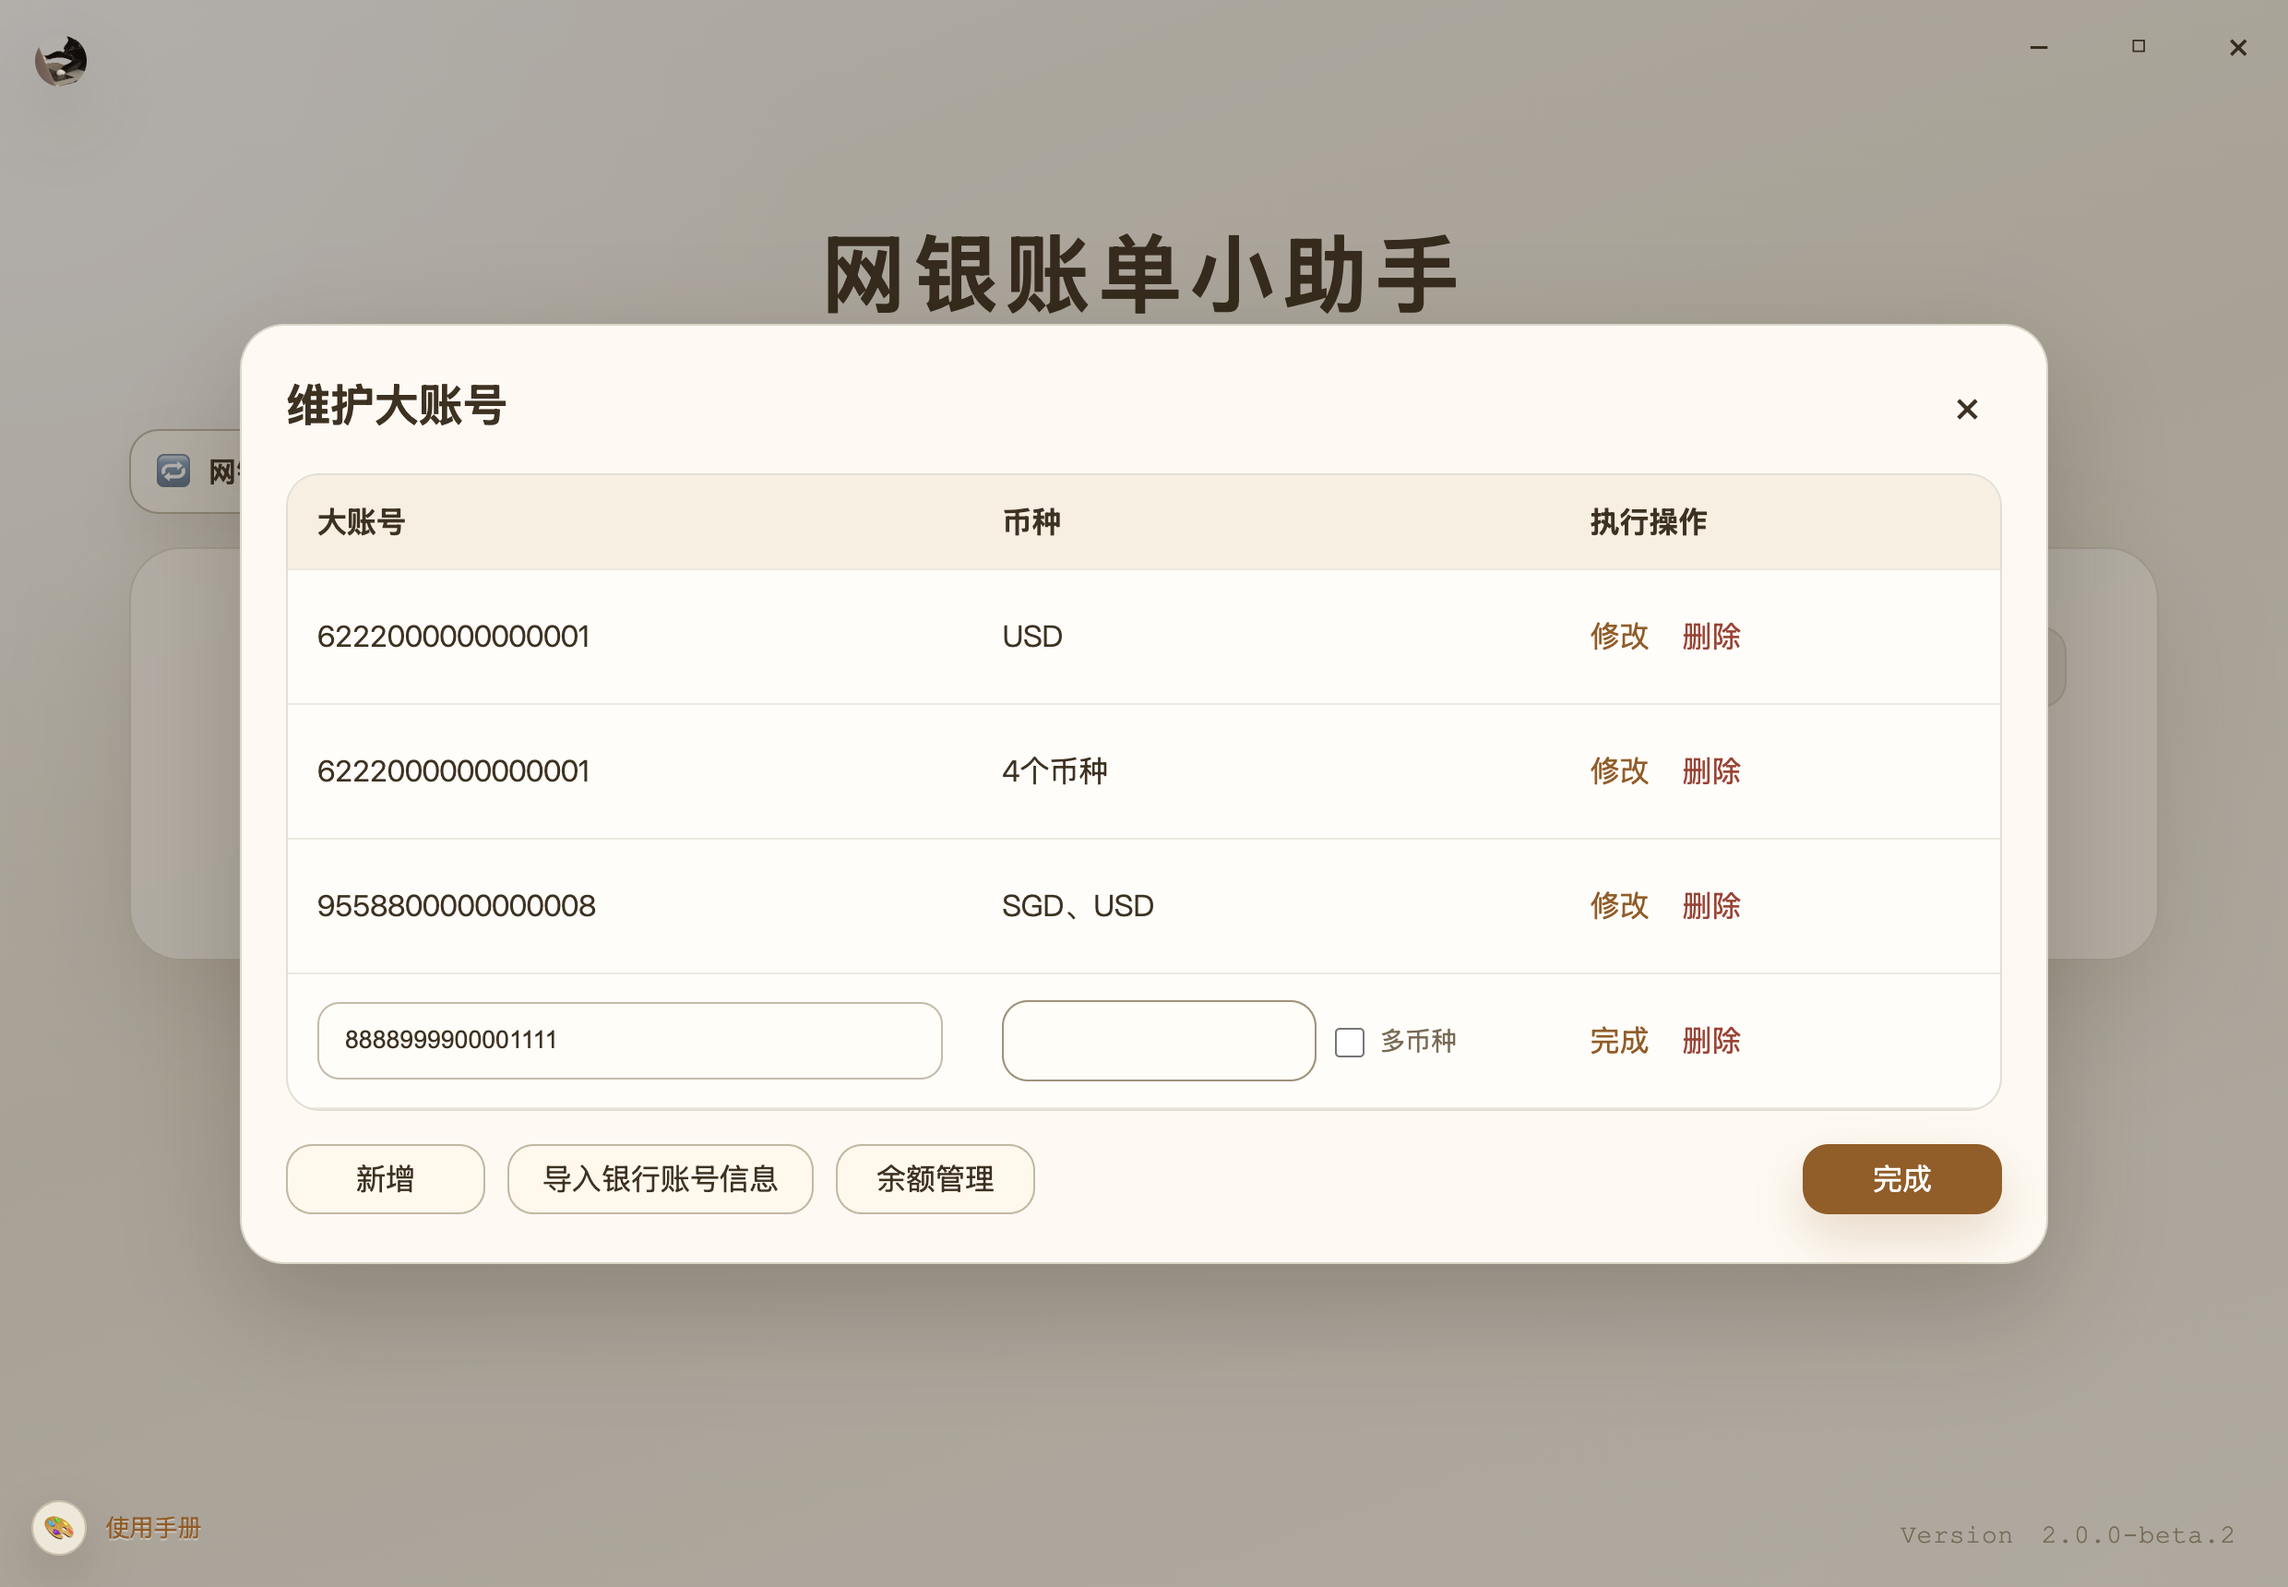
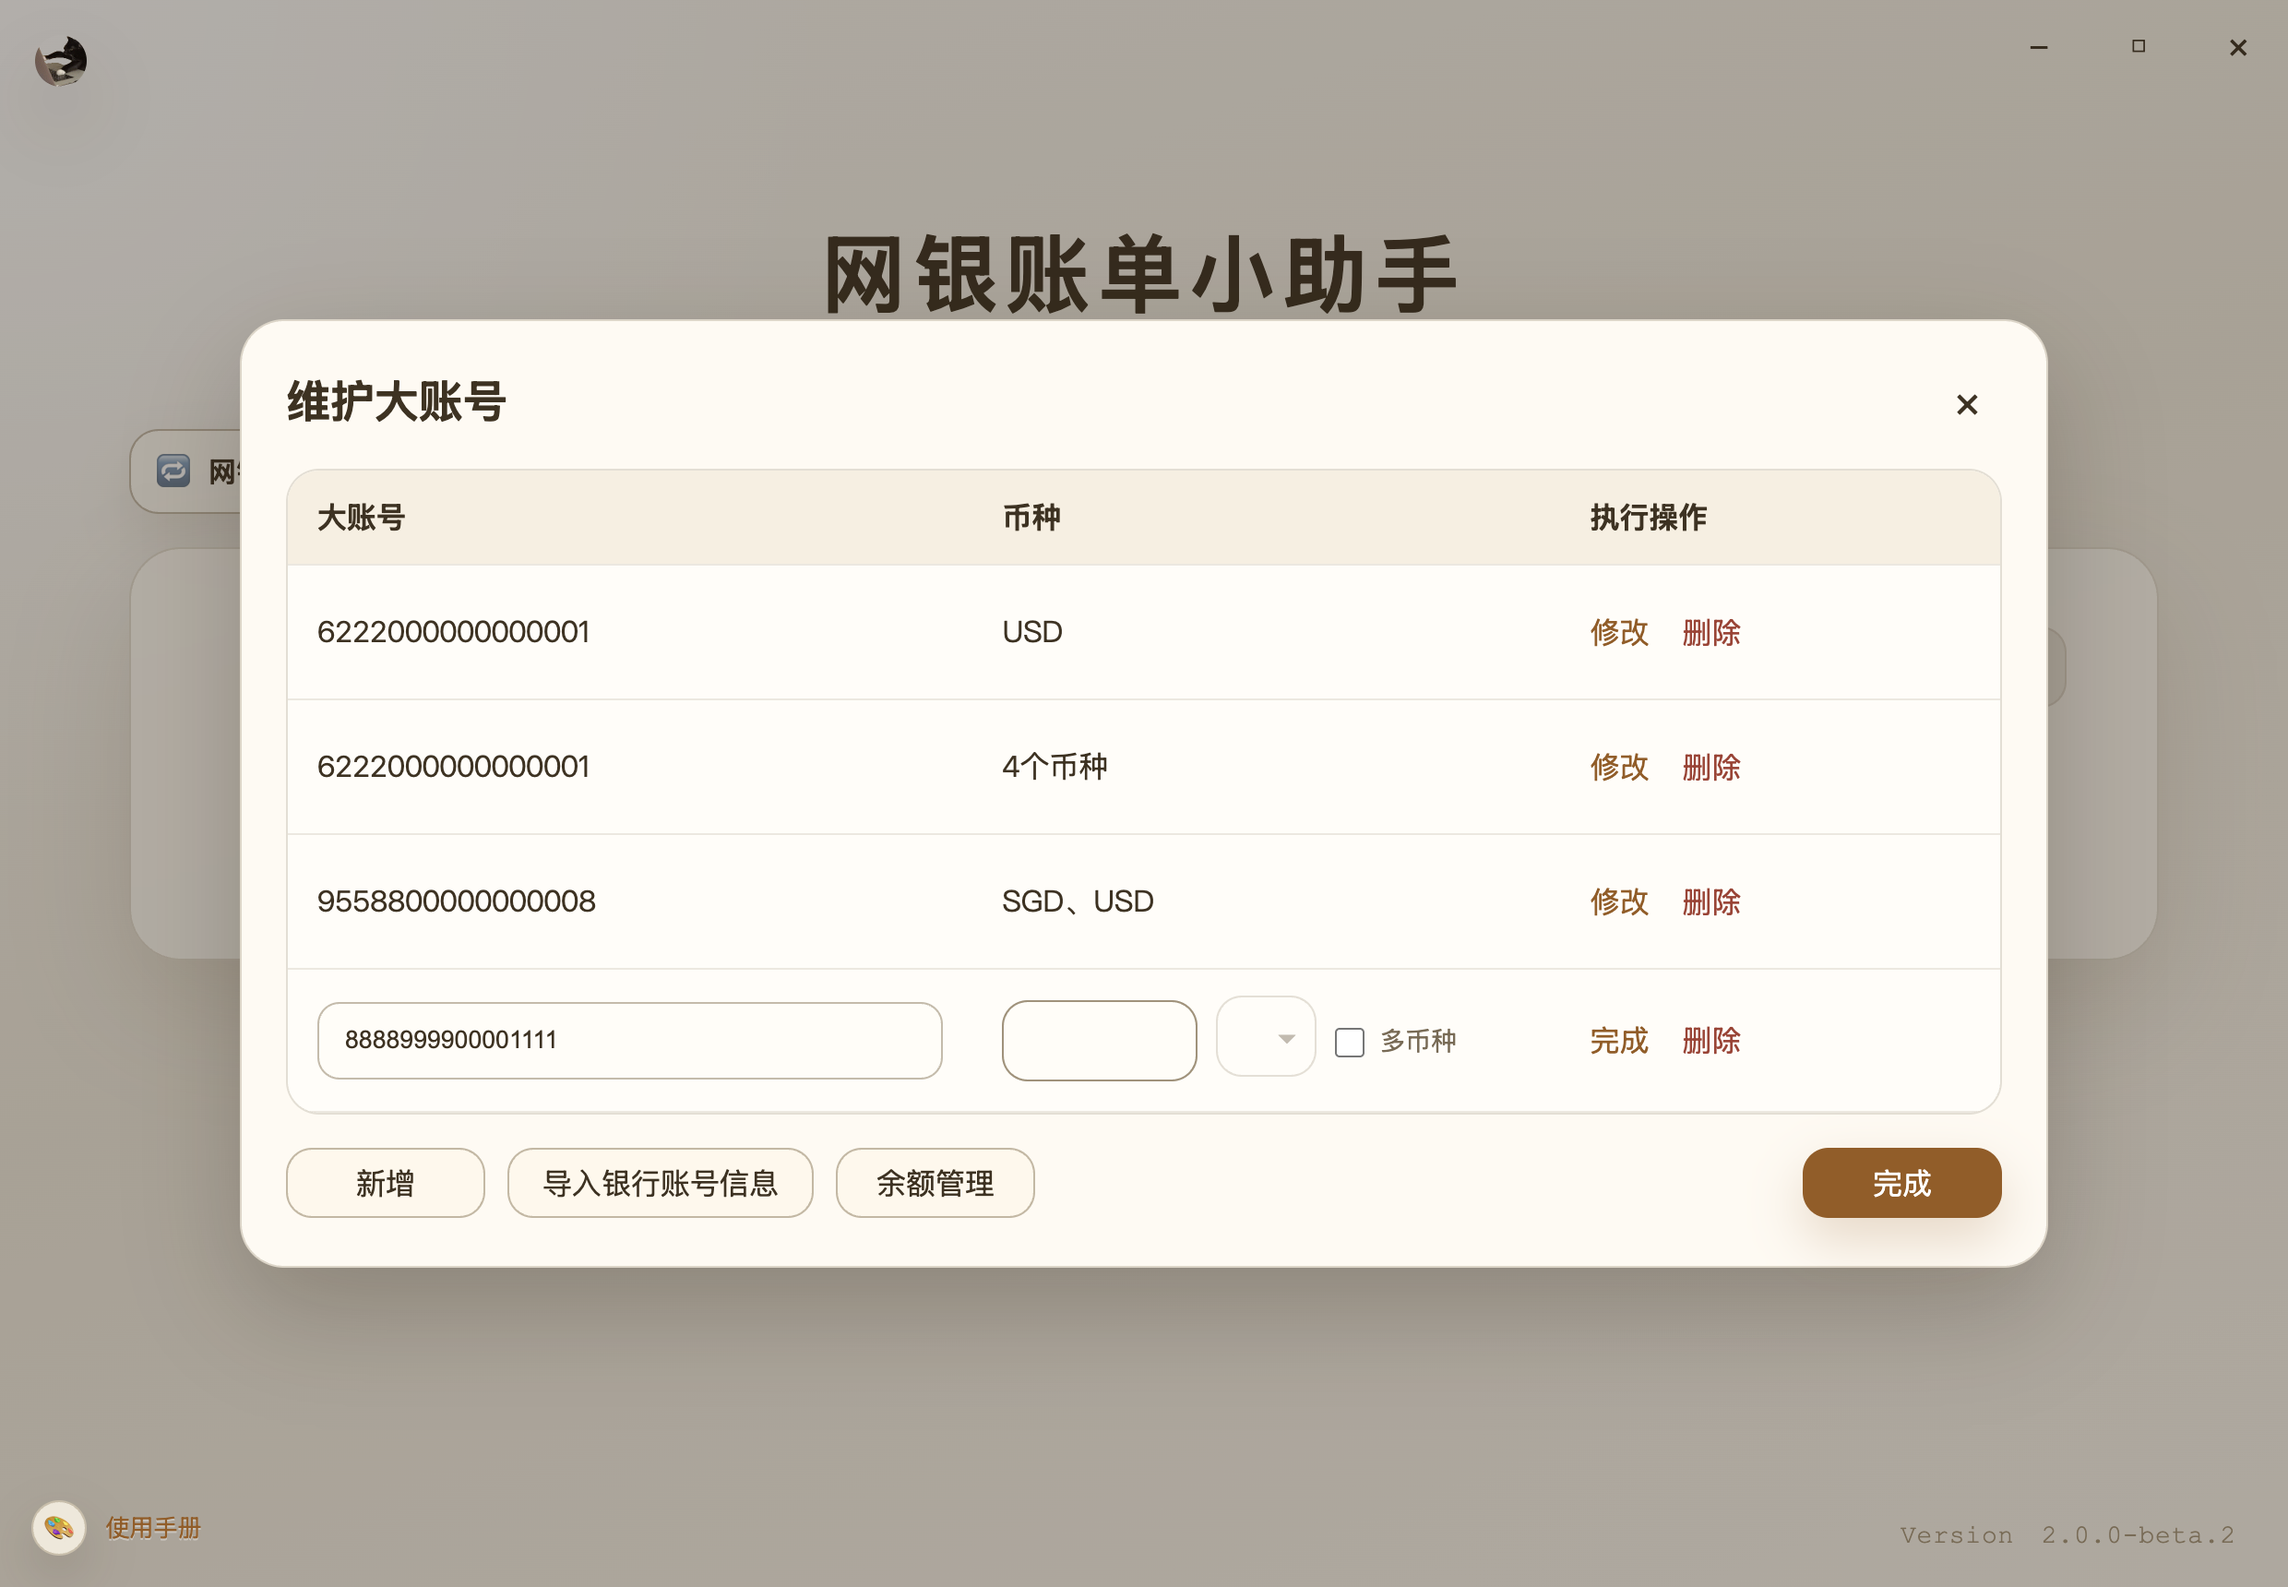
[v2.0.0-beta.2] feat(html): 维护大账号币种行始终 3 元素并排（input + dropdown + checkbox）
之前 syncCurrencyMode 用 hidden 切换互斥隐藏 currencyInputShell 和 dropdownWrap，
单币种态只显示 input + checkbox，多币种态只显示 dropdown btn + checkbox。

改为：
- HTML: dropdown wrap 默认不再 hidden
- syncCurrencyMode: hidden 切换 → classList.toggle('is-inactive') 视觉禁用态
- dropdownButton click guard: hidden → !multiCheckbox.checked
- 双风格 css 加 .is-inactive { opacity: .45; pointer-events: none }

视觉：编辑态恒定 [输入框 + 显示框 + 多币种 checkbox] 三元素并排，
当前激活态正常颜色，非激活态淡灰禁用。

数据流不变（保存时仍按 multiCheckbox.checked 选 input.value 或 selectedCurrencies）。

smoke ✅ pass，双风格 preview 重渲。

diff --git a/src/renderer-dialogs.js b/src/renderer-dialogs.js
@@ -1976,7 +1976,7 @@
                 <input class="new-account-input enum-ghost-input big-account-currency-ghost" type="text" tabindex="-1" disabled />
                 <input class="new-account-input enum-active-input big-account-currency-input" type="text" spellcheck="false" />
               </div>
-              <div class="new-account-currency-dropdown-wrap big-account-currency-dropdown-wrap" hidden>
+              <div class="new-account-currency-dropdown-wrap big-account-currency-dropdown-wrap">
                 <button class="new-account-input new-account-currency-dropdown-btn big-account-currency-dropdown-btn" type="button" aria-expanded="false"></button>
               </div>
               <label class="new-account-checkbox-label big-account-multi-label">
@@ -2058,8 +2058,10 @@
 
         function syncCurrencyMode() {
           const isMultiCurrency = multiCheckbox.checked;
-          currencyInputShell.hidden = isMultiCurrency;
-          dropdownWrap.hidden = !isMultiCurrency;
+          // v2.0.0-beta.2 阶段 5 收尾：input shell + dropdown wrap 始终并排可见，
+          // 通过 .is-inactive 视觉禁用非当前态（pointer-events:none + opacity）
+          currencyInputShell.classList.toggle('is-inactive', isMultiCurrency);
+          dropdownWrap.classList.toggle('is-inactive', !isMultiCurrency);
 
           if (!isMultiCurrency) {
             if (activeFloatingDropdown?.button === dropdownButton) {
@@ -2073,7 +2075,8 @@
         }
 
         dropdownButton.addEventListener('click', () => {
-          if (dropdownWrap.hidden) {
+          // v2.0.0-beta.2 阶段 5 收尾：dropdown 始终可见，但单币种态下不能点开
+          if (!multiCheckbox.checked) {
             return;
           }
 

diff --git a/src/styles-gemini-extra.css b/src/styles-gemini-extra.css
@@ -1392,6 +1392,11 @@ tr.add-row .text-action:hover { background: #c2d7fa; }
   font-size: 12px; color: var(--muted);
   white-space: nowrap;
 }
+.big-account-currency-input-shell.is-inactive,
+.big-account-currency-dropdown-wrap.is-inactive {
+  opacity: .45;
+  pointer-events: none;
+}
 .big-account-currency-floating-panel {
   z-index: 32;
   max-height: 320px;

diff --git a/src/styles.css b/src/styles.css
@@ -1902,6 +1902,12 @@ select {
   margin: 0 auto;
 }
 
+.big-account-currency-input-shell.is-inactive,
+.big-account-currency-dropdown-wrap.is-inactive {
+  opacity: .45;
+  pointer-events: none;
+}
+
 .big-account-view-text {
   display: block;
   min-height: 44px;
